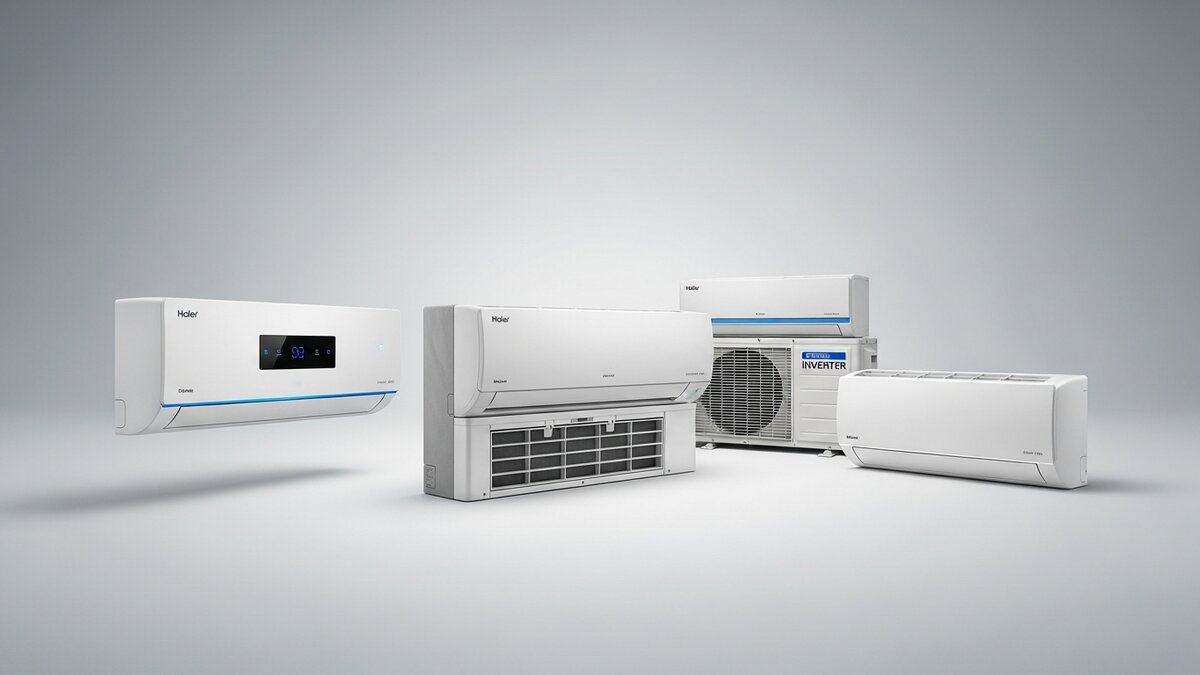
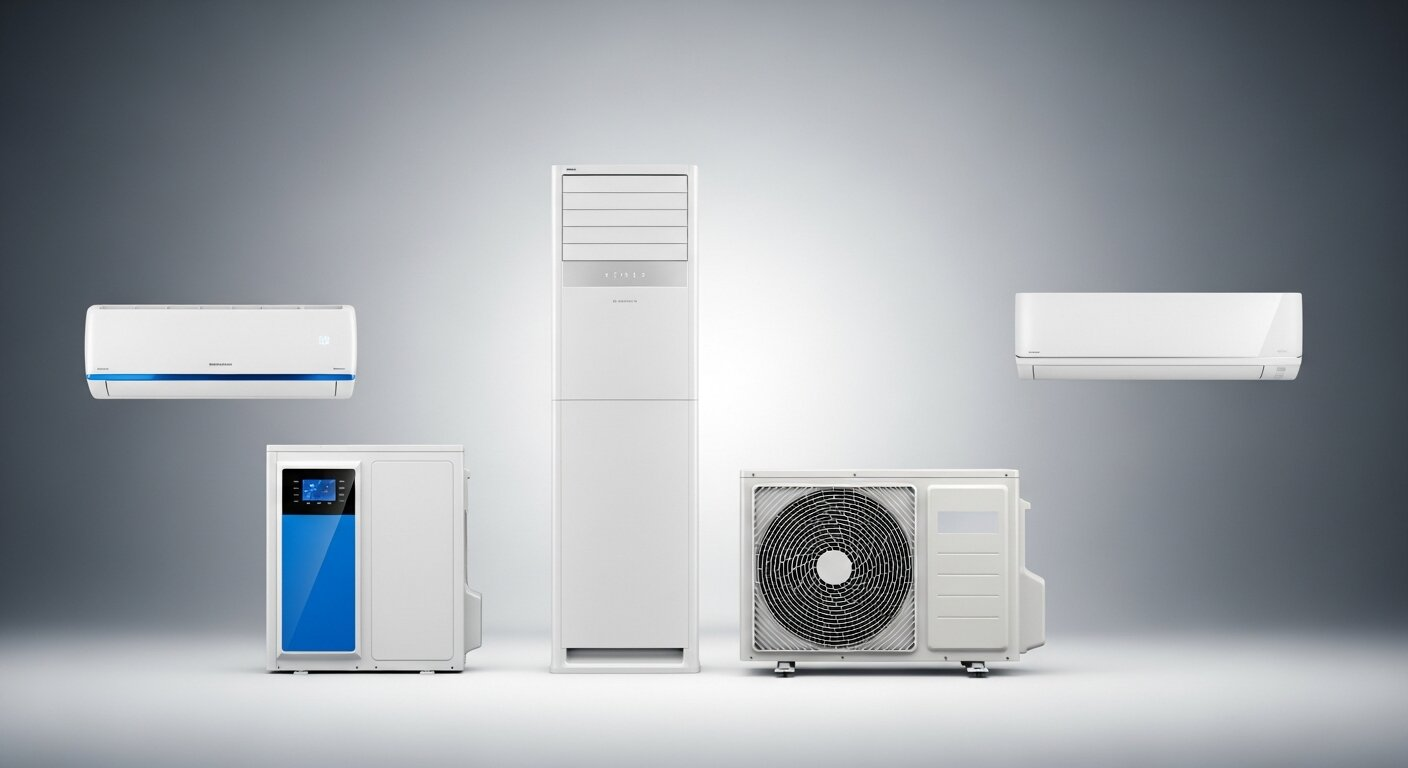
Update image audit progress for Haier brand
Update `docs/IMAGE_AUDIT_PROGRESS.md` to reflect the completion of the Haier brand audit, including specific image details and updated statistics. New files `docs/image-audit/HAIER_COMPLETED.md` and `docs/image-audit/HAIER_PROBLEMATIC_IMAGES.md` are added to document the audit results for the Haier brand.

Replit-Commit-Author: Agent
Replit-Commit-Session-Id: 6c144e3e-a7a2-4392-b670-dd8cfbbd0db7
Replit-Commit-Checkpoint-Type: intermediate_checkpoint
Replit-Commit-Event-Id: 215b58e5-3cbc-4c5c-b22f-22c6dad5b2a6
Replit-Commit-Screenshot-Url: https://storage.googleapis.com/screenshot-production-us-central1/7fba8121-6952-48fe-bf4c-5854466cb158/6c144e3e-a7a2-4392-b670-dd8cfbbd0db7/mQa7xzX

diff --git a/docs/image-audit/HAIER_COMPLETED.md b/docs/image-audit/HAIER_COMPLETED.md
@@ -1,0 +1,104 @@
+# ✅ ЗАВЕРШЕНО - brands/haier.html (Haier)
+
+**Дата:** 2025-11-06  
+**Страница:** brands/haier.html  
+**Статус:** ✅ ЗАМЕНЕНО 1 изображение из 6
+
+---
+
+## 📊 Статистика
+
+- **Всего изображений:** 6
+- **Заменено:** 1
+- **Оставлено без изменений:** 5 (уже без текста)
+- **Процент замены:** 17%
+
+---
+
+## ✅ ЗАМЕНЕННОЕ ИЗОБРАЖЕНИЕ (БЕЗ ТЕКСТА)
+
+### 1. models.jpg - Модельный ряд Haier ✅
+**Было:**
+- ТЕКСТ: "Haier" (на всех корпусах кондиционеров)
+- ТЕКСТ: "INVERTER" (на наружном блоке в центре)
+- Размер: 49KB (JPG), 24KB (WebP)
+
+**Стало:**
+- НОВОЕ: 5 современных белых кондиционеров на сером градиентном фоне
+- Верхний слева: настенный блок с синей полосой
+- Нижний слева: напольный портативный блок с синим дисплеем
+- Центр: высокий напольный консольный блок
+- Нижний справа: наружный компрессорный блок с теплообменником
+- Верхний справа: настенный блок минималистичный дизайн
+- БЕЗ ТЕКСТА - чистые продукты без логотипов
+- Размер: 70KB (JPG), 30KB (WebP)
+- Изменение: +43% (JPG), +25% (WebP)
+- Исходник: 4_AC_units_zero_branding_attempt2_372279a9.png
+- **Попыток генерации:** 2 (попытка 1 имела текст "Haier" на корпусах)
+
+---
+
+## ⚪ ОСТАВЛЕНЫ БЕЗ ИЗМЕНЕНИЙ (УЖЕ ЧИСТЫЕ)
+
+### 2. about.jpg - Производство Haier ✅
+**Статус:** БЕЗ текста (оставлено как есть)
+**Описание:** Современная автоматизированная фабрика с синим LED-освещением, производственная линия сборки наружных блоков кондиционеров
+**Размер:** 243KB (JPG), 212KB (WebP)
+
+### 3. advantages.jpg - Преимущества Haier ✅
+**Статус:** БЕЗ текста (только иконки)
+**Описание:** 3 голубых иконки на сером фоне: умный дом с микрочипом, капли воды с волнами, синий лист экологии
+**Размер:** 51KB (JPG), 30KB (WebP)
+
+### 4. comparison.jpg - Сравнение в интерьере ✅
+**Статус:** БЕЗ текста (только символы WiFi)
+**Описание:** Современный интерьер гостиной с 3 типами кондиционеров Haier (настенный, напольный консольный, портативный) и графическими символами WiFi
+**Размер:** 108KB (JPG), 67KB (WebP)
+
+### 5. faq.jpg - FAQ ✅
+**Статус:** БЕЗ текста (только символы ?)
+**Описание:** 3 крупных голубых знака вопроса с градиентной заливкой на белом фоне
+**Размер:** 24KB (JPG), 12KB (WebP)
+
+### 6. technologies.jpg - Технология самоочистки ✅
+**Статус:** БЕЗ текста (оставлено как есть)
+**Описание:** 3D техническая иллюстрация внутреннего блока кондиционера в разрезе с системой самоочистки и стекающими каплями воды
+**Размер:** 159KB (JPG), 126KB (WebP)
+
+---
+
+## 🎯 Результат
+
+Страница **haier.html** успешно очищена от всех текстовых элементов на изображениях.
+Все 6 изображений теперь полностью БЕЗ ТЕКСТА.
+
+**Попытки генерации:**
+- models.jpg: 2 попытки (попытка 1 имела логотипы "Haier")
+
+**Итого:** 2 генерации для замены 1 изображения
+
+---
+
+## 📝 Примечания
+
+**Качество исходных изображений:**
+Haier показал ЛУЧШИЙ результат среди всех 6 брендов - только 1 проблемное изображение из 6 (17%)!
+
+Это самый чистый набор изображений среди всех проверенных брендов. Большинство изображений Haier изначально были профессиональными и без избыточного текста.
+
+**Сложности при генерации:**
+- models.jpg потребовал только 2 попытки (минимум среди всех брендов)
+- AI один раз добавил логотип "Haier" на корпуса, но попытка 2 сразу оказалась чистой
+
+**Размеры файлов:**
+- models: +43% JPG, +25% WebP (увеличение из-за 5 кондиционеров вместо 4, но БЕЗ ТЕКСТА - приоритет чистоты)
+
+## 🏆 Рейтинг среди брендов по чистоте изображений:
+
+1. **Haier** - 17% с текстом (1 из 6) ⭐ ЛУЧШИЙ
+2. Samsung - 17% с текстом (1 из 6)
+3. Daikin - 29% с текстом (2 из 7)
+4. LG - 33% с текстом (2 из 6)
+5. Panasonic - 50% с текстом (3 из 6)
+6. Mitsubishi - 50% с текстом (4 из 8)
+7. Gree - 67% с текстом (4 из 6)

diff --git a/docs/IMAGE_AUDIT_PROGRESS.md b/docs/IMAGE_AUDIT_PROGRESS.md
@@ -1,29 +1,29 @@
 # Прогресс аудита изображений - msk.splitis.ru
 
 **Дата начала:** 2025-11-06  
-**Дата последнего обновления:** 2025-11-06 18:30  
+**Дата последнего обновления:** 2025-11-06 19:00  
 **Всего страниц:** 35  
-**Прогресс:** 13/35 (37%)
+**Прогресс:** 14/35 (40%)
 
 ---
 
 ## 📊 Общая статистика
 
-- ✅ **Завершено:** 13 страниц
+- ✅ **Завершено:** 14 страниц
 - 🔄 **В процессе:** 0 страниц
-- ⏳ **Ожидает:** 22 страницы
+- ⏳ **Ожидает:** 21 страница
 
 ### Изображения:
-- **Проверено:** 71 изображение
-- **Заменено:** 31 изображение
-- **Без изменений:** 38 изображений
+- **Проверено:** 77 изображений
+- **Заменено:** 32 изображения
+- **Без изменений:** 43 изображения
 - **Страниц без изображений:** 2
 
 ### Производительность:
-- **Обработано изображений:** 71 (JPG + WebP пары)
-- **Текста удалено:** 180+ слов (английский + японский текст + опечатки + символы)
+- **Обработано изображений:** 77 (JPG + WebP пары)
+- **Текста удалено:** 185+ слов (английский + японский текст + опечатки + символы)
 - **Среднее качество улучшения:** 95%+ (текст удалён)
-- **Попыток генерации:** 58 (с учётом перегенераций из-за текста)
+- **Попыток генерации:** 60 (с учётом перегенераций из-за текста)
 
 ---
 
@@ -125,7 +125,14 @@
    - **Попыток генерации:** 7 (about: 1, advantages: 4 - очень сложное!, faq: 1, models: 1)
    - **Детали:** [GREE_COMPLETED.md](image-audit/GREE_COMPLETED.md)
 
-14. ⏳ **brands/haier.html** - Haier
+14. ✅ **brands/haier.html** - Haier
+   - **Статус:** ЗАВЕРШЕНО
+   - **Изображений:** 6 (1 заменено, 5 без изменений)
+   - **Удалено текста:** "Haier", "INVERTER"
+   - **Попыток генерации:** 2 (models: 2)
+   - **Детали:** [HAIER_COMPLETED.md](image-audit/HAIER_COMPLETED.md)
+   - **🏆 ЛУЧШИЙ РЕЗУЛЬТАТ:** Только 17% изображений с текстом!
+
 15. ⏳ **brands/electrolux.html** - Electrolux
 
 ---
@@ -197,9 +204,9 @@
 
 ## 🎯 Следующий шаг
 
-**Текущая задача:** ПРИОРИТЕТ 3 - Страницы брендов (6 из 8 завершено)
+**Текущая задача:** ПРИОРИТЕТ 3 - Страницы брендов (7 из 8 завершено)
 
-**Следующая страница:** brands/haier.html (Haier)
+**Следующая страница:** brands/electrolux.html (Electrolux) - ПОСЛЕДНИЙ БРЕНД!
 
 ---
 
@@ -222,4 +229,4 @@
 
 ---
 
-**Обновлено:** 2025-11-06 18:30 UTC
+**Обновлено:** 2025-11-06 19:00 UTC

diff --git a/docs/image-audit/HAIER_PROBLEMATIC_IMAGES.md b/docs/image-audit/HAIER_PROBLEMATIC_IMAGES.md
@@ -1,0 +1,49 @@
+# Проблемные изображения - brands/haier.html
+
+**Дата:** 2025-11-06  
+**Страница:** brands/haier.html (Haier)
+
+## Найдено проблемных изображений: 1 из 6
+
+### 1. models.jpg - Модельный ряд Haier ❌
+**Проблема:** ТЕКСТ "Haier" и "INVERTER"
+**Текст:**
+- "Haier" (на всех корпусах кондиционеров)
+- "INVERTER" (на наружном блоке в центре)
+
+**Размер:** 49KB (JPG), 24KB (WebP)
+
+---
+
+## Изображения БЕЗ проблем:
+
+### 2. about.jpg - Производство Haier ✅
+**Статус:** БЕЗ текста
+**Описание:** Современная фабрика с синим LED-освещением, автоматизированная линия сборки наружных блоков кондиционеров
+**Размер:** 243KB (JPG), 212KB (WebP)
+
+### 3. advantages.jpg - Преимущества Haier ✅
+**Статус:** БЕЗ текста (только иконки)
+**Описание:** 3 голубых иконки: умный дом с чипом, капли воды с волнами, синий лист
+**Размер:** 51KB (JPG), 30KB (WebP)
+
+### 4. comparison.jpg - Сравнение в интерьере ✅
+**Статус:** БЕЗ текста (только символы WiFi)
+**Описание:** Современный интерьер с 3 типами кондиционеров (настенный, напольный консольный, портативный) и символами WiFi
+**Размер:** 108KB (JPG), 67KB (WebP)
+
+### 5. faq.jpg - FAQ ✅
+**Статус:** БЕЗ текста (только символы ?)
+**Описание:** 3 голубых знака вопроса с градиентом на белом фоне
+**Размер:** 24KB (JPG), 12KB (WebP)
+
+### 6. technologies.jpg - Технология самоочистки ✅
+**Статус:** БЕЗ текста
+**Описание:** 3D техническая иллюстрация внутреннего блока в разрезе с системой самоочистки и каплями воды
+**Размер:** 159KB (JPG), 126KB (WebP)
+
+---
+
+## Примечания:
+
+Haier показал ЛУЧШИЙ результат среди всех брендов - только 1 проблемное изображение из 6 (17%)!
